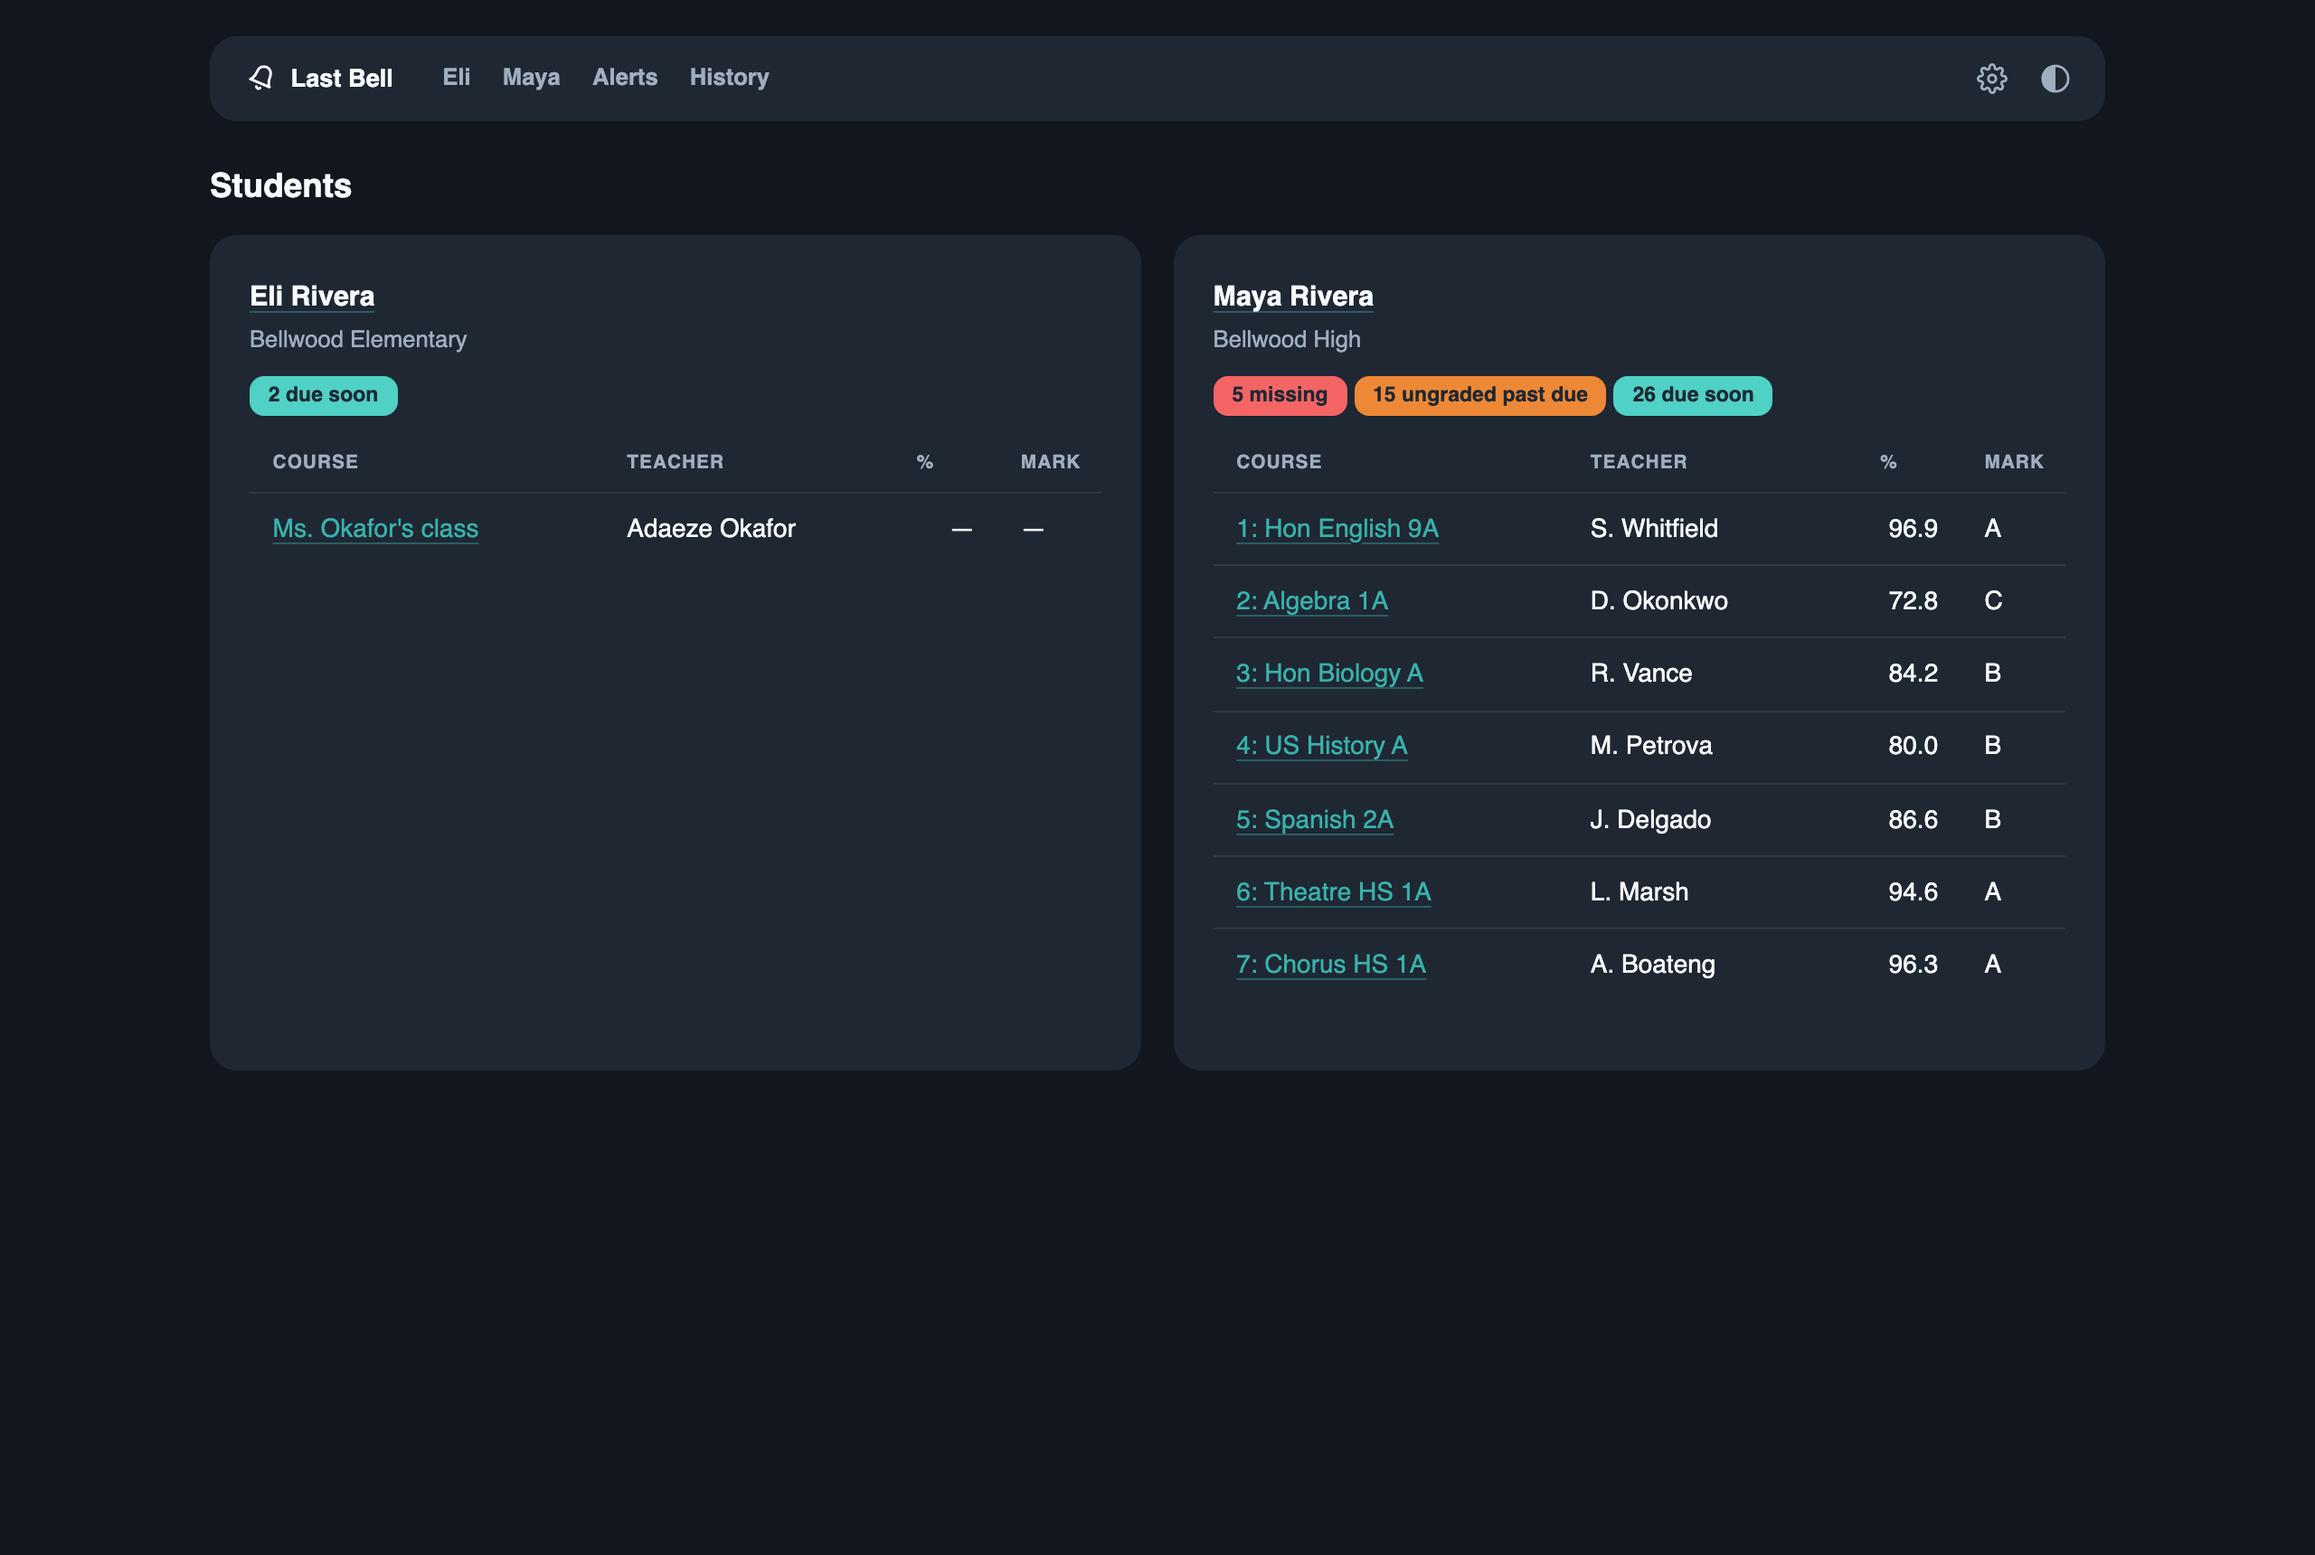
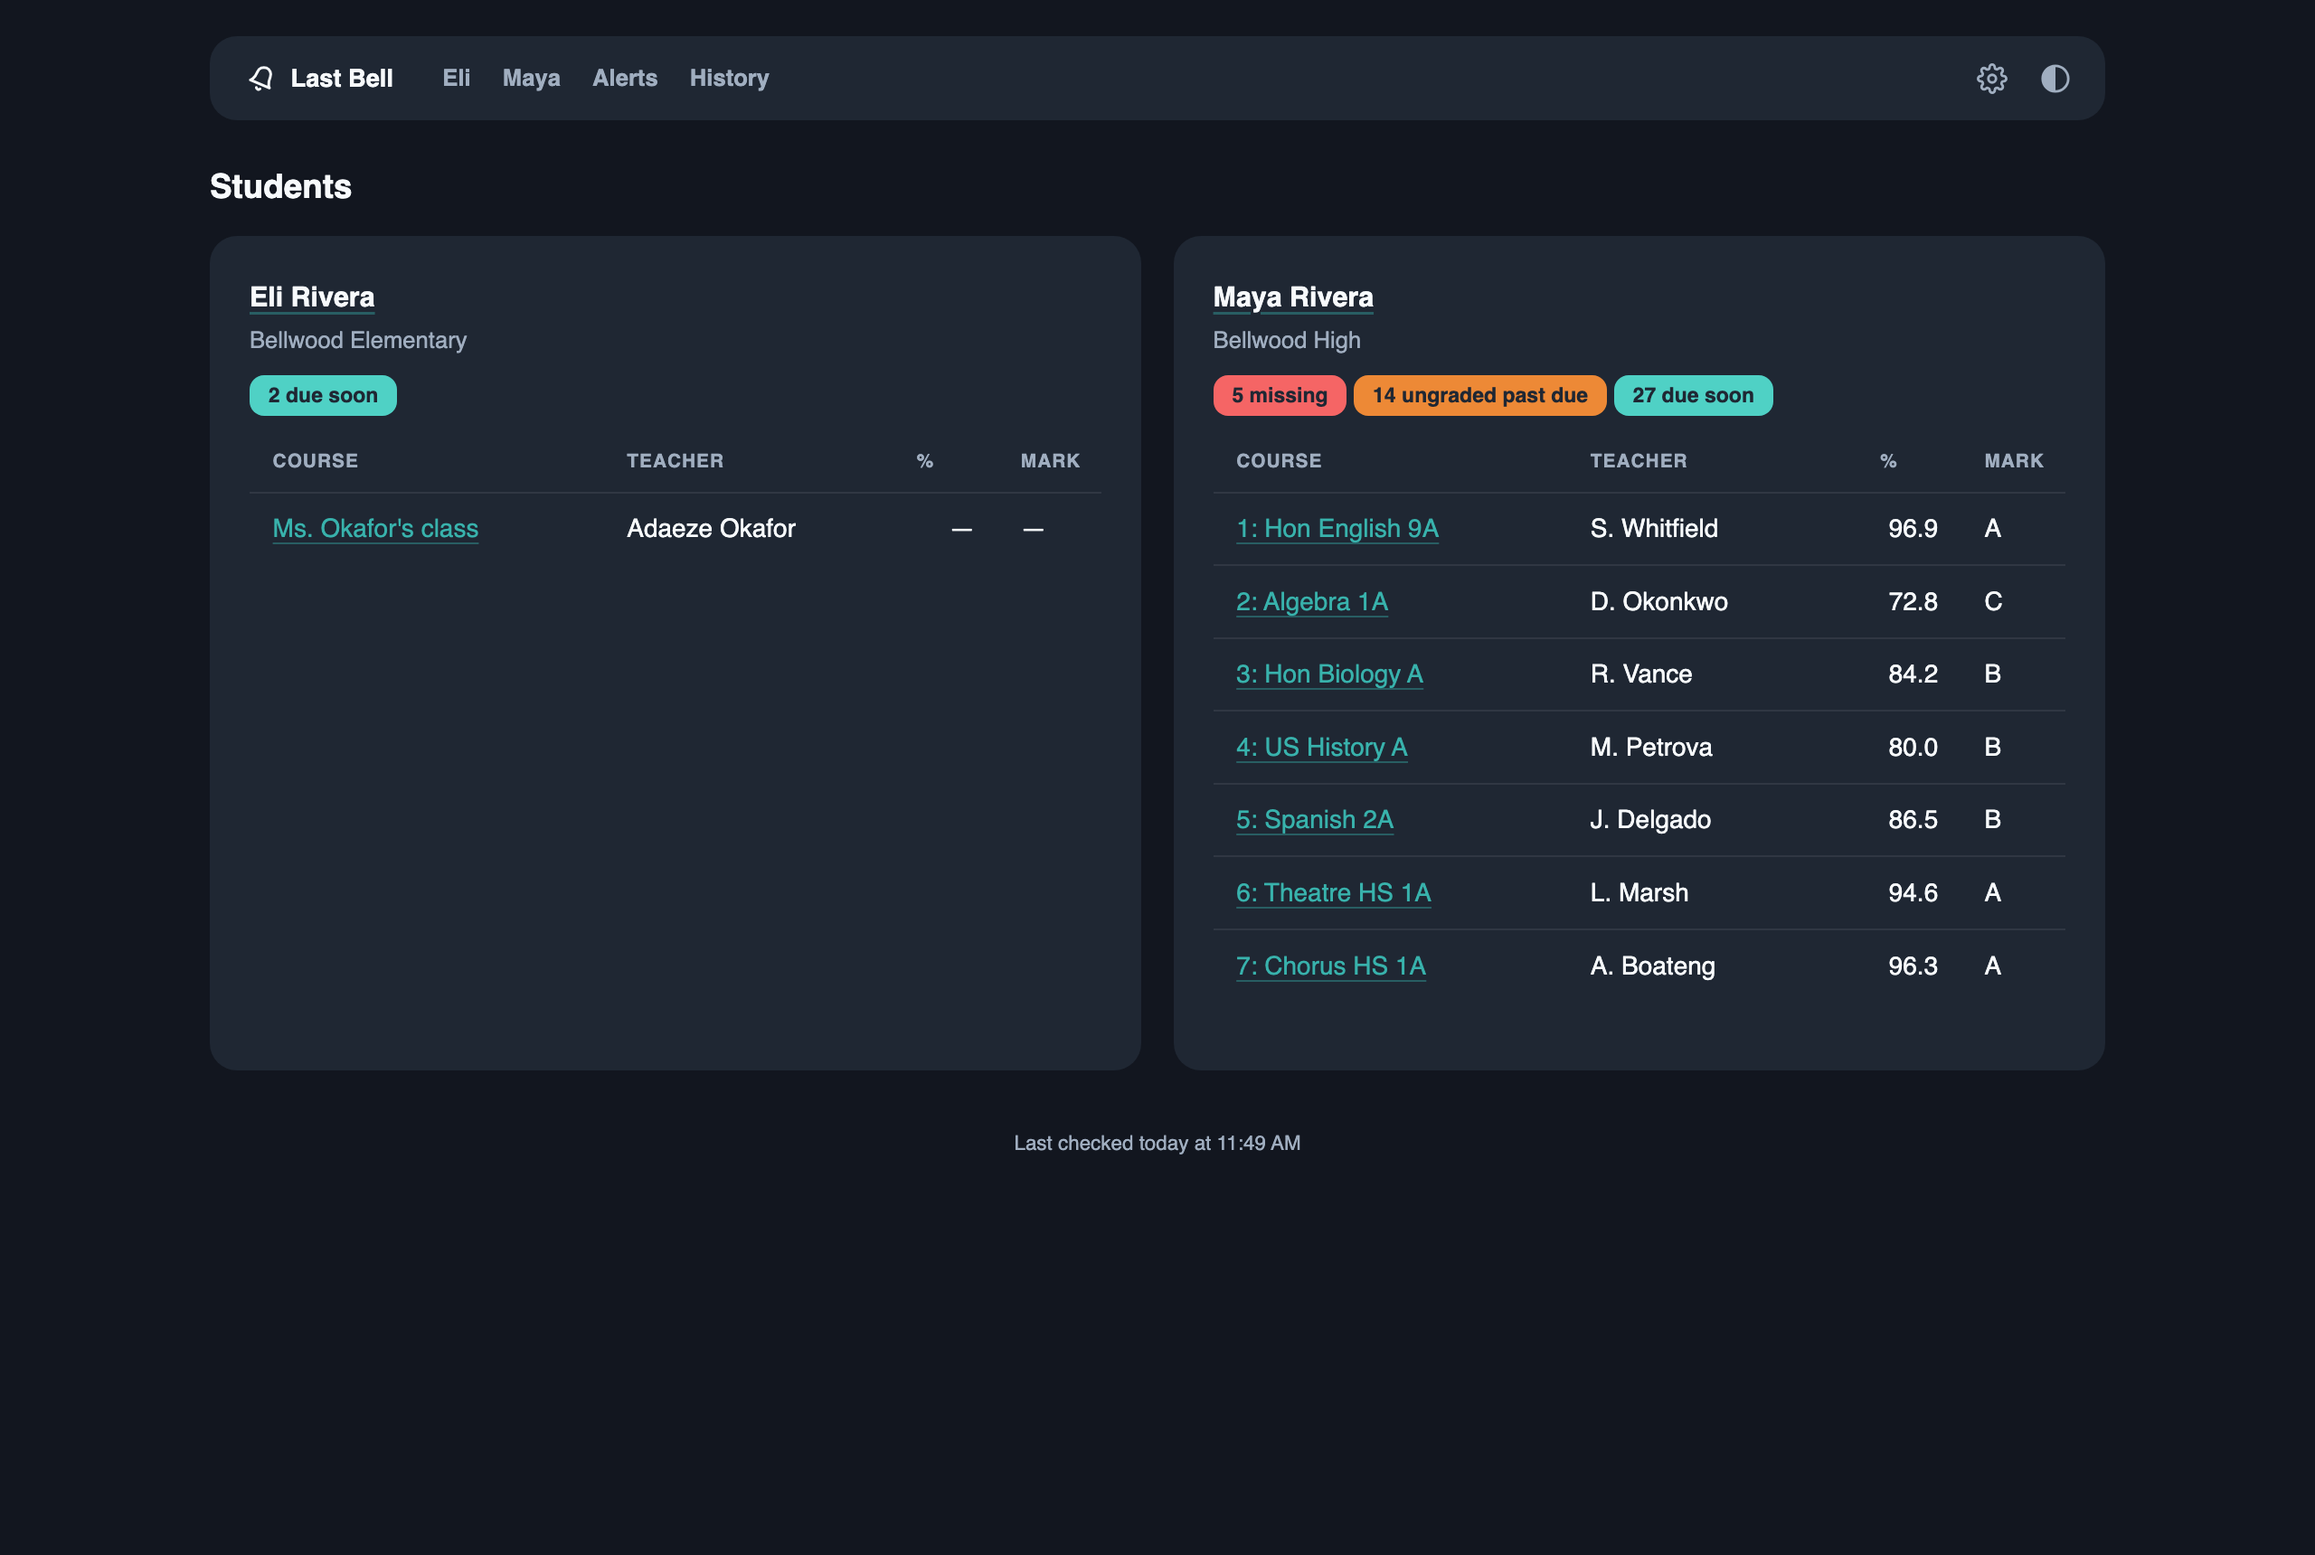
Demo records a recent poll so the home page shows "Last checked"; home screenshot retaken
The freshness footer landed in 0.2.4, after the README screenshots were
taken, and seed-demo never recorded a poll, so a fresh demo said "Not
checked yet". The seeder now stamps a poll 41 minutes ago on the real
clock; home.png retaken at the same 1280x860 @2x with headless Chrome.

diff --git a/lastbell/seed.py b/lastbell/seed.py
@@ -20,7 +20,7 @@ from __future__ import annotations
 import random
 import sqlite3
 from dataclasses import dataclass
-from datetime import date, timedelta
+from datetime import date, datetime, timedelta, timezone
 
 from . import store
 from . import watchers as watchermod
@@ -251,6 +251,11 @@ def seed_demo(conn: sqlite3.Connection, *, seed: int = 2026,
         watchermod.subscribe(conn, mom, agu, send_at="16:00", urgent_now=True)
     watchermod.subscribe(conn, maya, _HS.agu,
                          ["assignment_missing", "upcoming_deadline"], ["email"])
+    # A real install's home page ends with "Last checked …"; the demo should
+    # too, and read as a watcher that is running — so: a poll that finished
+    # 41 minutes ago on the real clock (the only place the demo touches it).
+    store.record_poll(conn, (datetime.now(timezone.utc) - timedelta(minutes=41))
+                      .strftime("%Y-%m-%d %H:%M:%S"))
     conn.commit()
 
     return {

diff --git a/tests/test_seed.py b/tests/test_seed.py
@@ -87,3 +87,18 @@ def test_deterministic_for_a_seed(tmp_path):
             "SELECT COUNT(*), SUM(LENGTH(name)) FROM assignments").fetchone())
         conn.close()
     assert digests[0] == digests[1]
+
+
+def test_demo_reads_as_a_running_watcher(demo):
+    """The home page's freshness line: the demo records a recent poll, so the
+    footer says "Last checked … at …" rather than "Not checked yet"."""
+    from datetime import datetime, timedelta, timezone
+
+    from lastbell.dashboard.render import _freshness_html
+
+    last = store.last_poll(demo)
+    assert last
+    when = datetime.fromisoformat(last).replace(tzinfo=timezone.utc)
+    assert timedelta(minutes=30) < datetime.now(timezone.utc) - when < timedelta(hours=1)
+    html = _freshness_html(last)
+    assert "Last checked" in html and "stale" not in html
